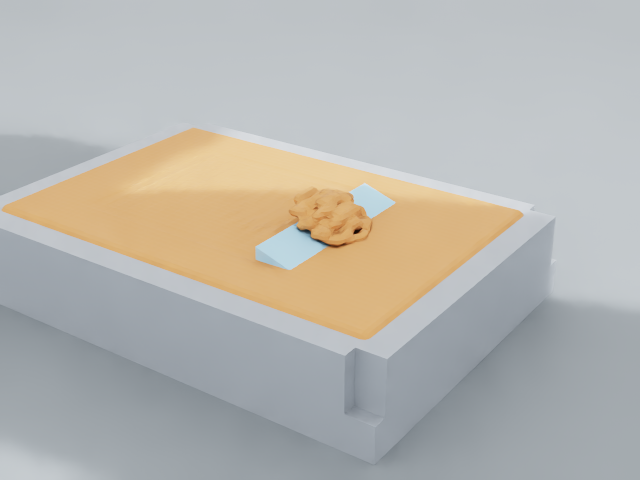
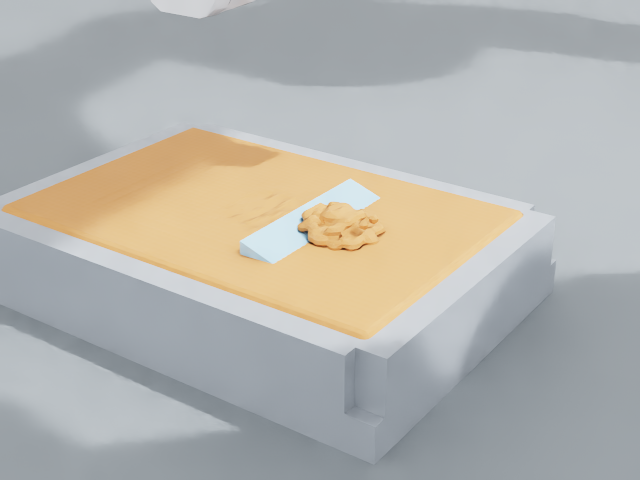
Capture native SingleView noise controls and canonical cutting videos

diff --git a/scripts/capture_ovrtx_rgbd.py b/scripts/capture_ovrtx_rgbd.py
@@ -70,8 +70,8 @@ def prepare(args):
             product.GetPrim().SetMetadata("apiSchemas", Sdf.TokenListOp.Create(prependedItems=["OmniSensorDepthSensorSingleViewAPI"]))
             parameters = {"enabled": True, "baselineMM": 95.0,
                 "focalLengthPixel": float(calibration[name]["K"][0][0]), "sensorSizePixel": float(args.width),
-                "maxDisparityPixel": 150.0, "confidenceThreshold": args.confidence, "noiseMean": .25,
-                "noiseSigma": .25, "noiseDownscaleFactorPixel": 1.0, "minDistance": .52,
+                "maxDisparityPixel": 150.0, "confidenceThreshold": args.confidence, "noiseMean": args.noise_mean,
+                "noiseSigma": args.noise_sigma, "noiseDownscaleFactorPixel": 1.0, "minDistance": .52,
                 "maxDistance": 6.0, "outlierRemovalEnabled": True, "rgbDepthOutputMode": 0,
                 "effectiveDistance": args.ir_effective_distance}
             for key, value in parameters.items():
@@ -251,6 +251,8 @@ def main():
     parser.add_argument("--camera-mode", choices=["ideal_rgbd", "simulated_d455"], default="ideal_rgbd")
     parser.add_argument("--confidence", type=float, default=.7)
     parser.add_argument("--ir-effective-distance", type=float, default=0.0)
+    parser.add_argument("--noise-mean", type=float, default=.25, help="Native SingleView noiseMean parameter")
+    parser.add_argument("--noise-sigma", type=float, default=.25, help="Native SingleView noiseSigma parameter")
     parser.add_argument("--prepare-only", action="store_true", help=argparse.SUPPRESS)
     args = parser.parse_args()
     if args.prepare_only:
@@ -258,6 +260,8 @@ def main():
         return 0
     if min(args.width, args.height, args.samples, args.warmup) < 1:
         parser.error("Resolution, samples and warmup must be positive")
+    if not np.isfinite(args.noise_mean) or not np.isfinite(args.noise_sigma) or args.noise_sigma < 0:
+        parser.error("Noise mean must be finite and noise sigma must be finite and nonnegative")
     output = new_output(args.output_dir)
     (output / "observations").mkdir(); (output / "global_debug").mkdir()
     (output / "camera_debug").mkdir()

diff --git a/docs/reports/WP-03-cutting.md b/docs/reports/WP-03-cutting.md
@@ -88,12 +88,14 @@ ffmpeg -n -loglevel error -framerate 5 \
   -c:v libx264 -pix_fmt yuv420p artifacts/coupled_closeup_fresh/coupled_cutting_closeup.mp4
 ```
 
-Completed local videos: `artifacts/ovrtx_cut_closeup_001/cut_closeup.mp4` (33KB),
-`artifacts/ovrtx_recontact_closeup_001/recontact_closeup.mp4` (34KB),
-`artifacts/ovrtx_coupled_001/coupled_cutting_overview.mp4` (21KB), and
-`artifacts/ovrtx_coupled_closeup_001/coupled_cutting_closeup.mp4` (101KB).
-These earlier diagnostic videos retain the intermediate prism facet winding;
-the canonical002 arrays and geometry QA use the corrected outward version.
+Canonical completed videos use the corrected outward wedge:
+`artifacts/ovrtx_coupled_002/coupled_cutting_overview.mp4` (21KB) and
+`artifacts/ovrtx_coupled_closeup_002/coupled_cutting_closeup.mp4` (100KB), each
+containing41 actual RTX frames at5fps. The earlier standalone diagnostic videos
+`artifacts/ovrtx_cut_closeup_001/cut_closeup.mp4` (33KB) and
+`artifacts/ovrtx_recontact_closeup_001/recontact_closeup.mp4` (34KB) retain the
+intermediate prism facet winding. Earlier coupled001 videos are also preserved
+as render intermediates; canonical002 arrays, videos and geometry QA agree.
 All files are actual RTX captures, with simple material overrides, not generated
 illustrations. Media and large USD/NPZ files remain ignored; small actual PNGs
 are committed under `docs/evidence/`.

diff --git a/docs/reports/WP-03-next.md b/docs/reports/WP-03-next.md
@@ -112,6 +112,16 @@ optical frame, not the separate native color camera; modeled-depth registration
 is deliberately marked false. Do not interpret all changes in modeled depth as
 material motion, since the model can change visibility/noise as well.
 
+The runner exposes `--noise-mean` and `--noise-sigma` (both default.25). A paired
+static slanted-checker-plane control actually ran with exact0/0 and.25/.25 in
+`artifacts/single_view_plane_noise_off_001` and `single_view_plane_noise_on_001`.
+Each has three frozen source times, confidence1, IR4m and ten warmup steps. Exact
+zero parameters executed successfully without an epsilon fallback. OFF had zero
+native depth pixels changing above10µm across frozen times; ON had43/41 such
+pixels in the two views. The raw scalar/XYZ outputs remain intact for the separate
+registration and analytic plane-error audit; temporal variation alone does not
+calibrate a physical D455.
+
 ## Primary sources
 
 - [Isaac6.2 depth sensor API and asset wrapping](https://docs.isaacsim.omniverse.nvidia.com/6.2.0/sensors/isaacsim_sensors_camera_depth.html)
